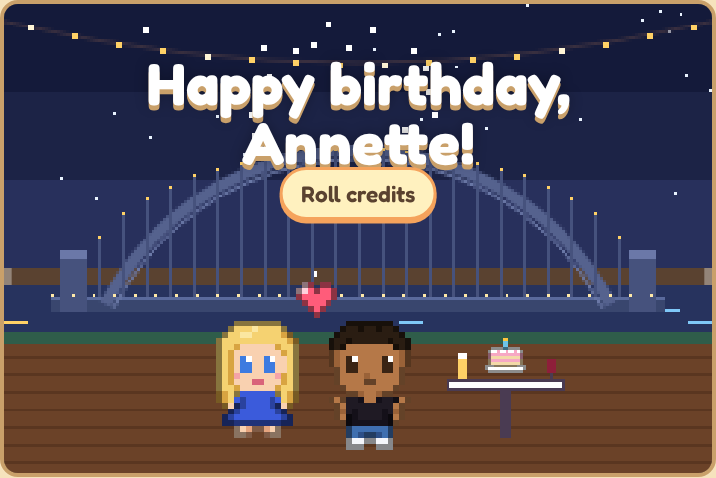
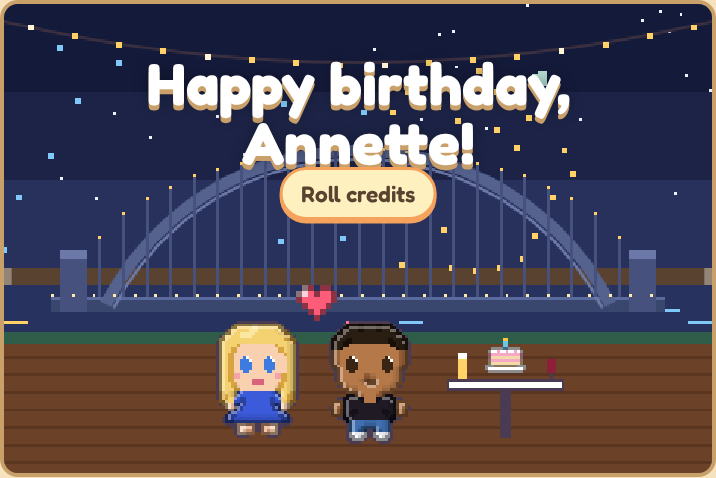
Hi-res leads: Annette, Paulo, Mum and Luca at 2x with rounded edges and soft shading
- Canvas now 480x320 with a 2x transform; all game code still works in 240x160 units
- Lead sprites pass through EPX (Scale2x) for rounded diagonals, then top-left lighting and bottom-right shade
- NPC variants stay at 1x so the leads read as more detailed
- Arms redrawn to hang beside the body; exports and screenshots regenerated

Claude-Session: https://claude.ai/code/session_013V3J7QvyVWMSHyHkDs2Wb3

diff --git a/index.html b/index.html
@@ -176,7 +176,7 @@ button:focus-visible{outline:3px solid #3d7be0;outline-offset:3px}
       <div id="stats"></div>
     </header>
     <div id="screen">
-      <canvas id="game" width="240" height="160" aria-label="Game screen"></canvas>
+      <canvas id="game" width="480" height="320" aria-label="Game screen"></canvas>
       <div id="ui" aria-live="polite"></div>
       <div id="toasts"></div>
       <div id="np" hidden></div>
@@ -261,6 +261,7 @@ const CONFIG = {
 /* ---------------- helpers ---------------- */
 const $ = s => document.querySelector(s);
 const cv = $('#game'), ctx = cv.getContext('2d');
+ctx.setTransform(2, 0, 0, 2, 0, 0); ctx.imageSmoothingEnabled = false;
 ctx.imageSmoothingEnabled = false;
 const ui = $('#ui'), toasts = $('#toasts'), fadeEl = $('#fade');
 const INK = '#4a3b52';
@@ -276,7 +277,7 @@ function hsh(x, y, n) { let h = (x * 374761393 + y * 668265263 + n * 982451653) 
 function oval(cx, cy, rx, ry, fill, stroke) { ctx.beginPath(); ctx.ellipse(cx, cy, rx, ry, 0, 0, Math.PI * 2); ctx.fillStyle = fill; ctx.fill(); if (stroke) { ctx.lineWidth = 2; ctx.strokeStyle = stroke === INK ? shade(fill, 0.6) : stroke; ctx.stroke(); } }
 
 /* ---------------- sprites ---------------- */
-const BODY = [".KSKTTtSStTTKSK.", "..KSTTTTTTTTSK..", "..KsTtTTTTtTsK..", "..KSKtTTTTtKSK..", "...KKbbbbbbKK...", "....KPPPPPPK....", "....KPpKKpPK....", "....KBBKKBBK....", "....KKK..KKK...."];
+const BODY = ["..KKTTtSStTTKK..", ".KSKTTTTTTTTKSK.", ".KsKTtTTTTtTKsK.", "..KKtTTTTTTtKK..", "....KPPPPPPK....", "....KPpKKpPK....", "....KBBKKBBK....", "....KKK..KKK...."];
 const girlPal = { K: INK, W: "#ffffff", Y: "#fbe7a1", S: "#f9d1b0", s: "#e6a57f", R: "#f4a3a8", L: "#d9637a", E: "#3d7be0", H: "#f5d271", h: "#d8a441", T: "#ff6f91", t: "#c94a6e", P: "#2b2d42", p: "#1c1d2c", B: "#f4f6fb" };
 const HEAD_F = ["....KKKKKKKK....", "...KHHHYHHHHK...", "..KHHYYHHHHHhK..", ".KHHHHHHHHHHHhK.", ".KHHhSSSSSShHHK.", ".KHhSSSSSSSShHK.", ".KHhSEWSSEWSSHK.", ".KHhSEESSEESSHK.", ".KHhSEESSEESSHK.", ".KHhRSSSSSSRhHK.", ".KHhSSSLLSSShHK.", ".KHHhSSSSSShHHK.", ".KhHKTTTTTTKHhK.", ".KhHTtTTTTtTHhK.", "..KSKtTTTTtKSK.."];
 const HEAD_B = ["....KKKKKKKK....", "...KHHHYHHHHK...", "..KHHYYHHHHHhK..", ".KHHHHHHHHHHHhK.", ".KHhHHHHHHHHhHK.", ".KHHHhHHHHhHHHK.", ".KHHHHHhHhHHHHK.", ".KHhHHHHHHHHhHK.", ".KHHHhHHhHHhHHK.", ".KHHHHHHHHHHHHK.", ".KHhHHhHHhHHhHK.", ".KHHHHHHHHHHHHK.", ".KhHKTHHhHHTKHhK", ".KhHTtHhHhHtTHhK", "..KSKtTHHhTtKSK."];
@@ -313,29 +314,53 @@ function dk(hex) {
   const n = parseInt(h, 16); if (isNaN(n)) return hex;
   return '#' + [(n >> 16) & 255, (n >> 8) & 255, n & 255].map(v => ('0' + Math.round(v * 0.72).toString(16)).slice(-2)).join('');
 }
+// EPX / Scale2x: doubles a character grid while rounding diagonals, so the leads lose the staircase look
+function epx(rows) {
+  const h = rows.length, w = rows[0].length, at = (x, y) => (y < 0 || y >= h || x < 0 || x >= w) ? '.' : rows[y][x];
+  const out = Array.from({ length: h * 2 }, () => new Array(w * 2).fill('.'));
+  for (let y = 0; y < h; y++) for (let x = 0; x < w; x++) {
+    const P = at(x, y), A = at(x, y - 1), B = at(x + 1, y), C = at(x - 1, y), D = at(x, y + 1);
+    let p1 = P, p2 = P, p3 = P, p4 = P;
+    if (C === A && C !== D && A !== B) p1 = A;
+    if (A === B && A !== C && B !== D) p2 = B;
+    if (D === C && D !== B && C !== A) p3 = C;
+    if (B === D && B !== A && D !== C) p4 = D;
+    out[y * 2][x * 2] = p1; out[y * 2][x * 2 + 1] = p2; out[y * 2 + 1][x * 2] = p3; out[y * 2 + 1][x * 2 + 1] = p4;
+  }
+  return out.map(r => r.join(''));
+}
+function isLead(key, ov) { return key.startsWith('annette') || key.startsWith('luca') || ((key === 'paulo' || key === 'mum') && !(ov && Object.keys(ov).length)); }
 function sprite(key, ov) {
   const id = key + JSON.stringify(ov || {});
   if (spriteCache[id]) return spriteCache[id];
   const d = SPR[key], pal = Object.assign({}, d.pal);
   if (ov) for (const k in ov) { if (ov[k] && pal[k] !== undefined) { pal[k] = ov[k]; const lk = k.toLowerCase(); if (lk !== k && pal[lk] !== undefined) pal[lk] = dk(ov[k]); } }
-  const w = d.rows[0].length, h = d.rows.length;
-  const c = document.createElement('canvas'); c.width = w; c.height = h;
+  const hi = isLead(key, ov) ? 2 : 1, rows = hi === 2 ? epx(d.rows) : d.rows;
+  const w = rows[0].length, h = rows.length;
+  const c = document.createElement('canvas'); c.width = w; c.height = h; c.hi = hi;
   const x = c.getContext('2d');
-  const at = (xx, yy) => (yy < 0 || yy >= h || xx < 0 || xx >= w) ? '.' : d.rows[yy][xx];
-  d.rows.forEach((r, yy) => { for (let xx = 0; xx < w; xx++) {
+  const at = (xx, yy) => (yy < 0 || yy >= h || xx < 0 || xx >= w) ? '.' : rows[yy][xx];
+  const solid = ch => ch !== '.' && ch !== 'K';
+  rows.forEach((r, yy) => { for (let xx = 0; xx < w; xx++) {
     const ch = r[xx]; if (!ch || ch === '.') continue;
     let col = pal[ch] || '#f0f';
     if (ch === 'K') {
       // outline pixel: borrow the colour it sits against, darkened (selective outlining)
       const nb = [[0, -1], [-1, 0], [1, 0], [0, 1], [-1, -1], [1, -1], [-1, 1], [1, 1]].map(([dx, dy]) => at(xx + dx, yy + dy)).filter(n => n !== '.' && n !== 'K' && pal[n]);
       if (nb.length) { const counts = {}; nb.forEach(n => counts[n] = (counts[n] || 0) + 1); const best = Object.keys(counts).sort((a, b) => counts[b] - counts[a])[0]; col = shade(pal[best], 0.55); }
+    } else if (hi === 2 && ch !== 'W' && ch !== 'E') {
+      // soft form shading on the leads: lit from the top-left, shadowed toward the bottom-right edges
+      const up = at(xx, yy - 1), dn = at(xx, yy + 1), lf = at(xx - 1, yy), rt = at(xx + 1, yy);
+      if (!solid(up) || !solid(lf)) col = lite(col);
+      else if (!solid(dn) || !solid(rt)) col = shade(col, 0.86);
+      else if (!solid(at(xx, yy + 2)) || !solid(at(xx + 2, yy))) col = shade(col, 0.94);
     }
     x.fillStyle = col; x.fillRect(xx, yy, 1, 1);
   } });
   return (spriteCache[id] = c);
 }
 function drawSpr(img, x, y, flip, scale) {
-  scale = scale || 1; x = Math.round(x); y = Math.round(y);
+  scale = (scale || 1) / (img.hi || 1); x = Math.round(x); y = Math.round(y);
   const w = img.width * scale, h = img.height * scale;
   if (flip) { ctx.save(); ctx.translate(x + w, y); ctx.scale(-1, 1); ctx.drawImage(img, 0, 0, w, h); ctx.restore(); }
   else ctx.drawImage(img, x, y, w, h);
@@ -413,7 +438,7 @@ function showItem(sprKey, lines) {
   const p = el('div', 'panel');
   p.innerHTML = '<h2>Secret found!</h2>';
   const wrap = el('div', 'itemwrap');
-  const c = el('canvas', 'itemimg'); c.width = im.width; c.height = im.height;
+  const c = el('canvas', 'itemimg'); c.width = im.width; c.height = im.height; c.style.width = (26 / (im.hi || 1)) + 'cqw';
   c.getContext('2d').drawImage(im, 0, 0);
   wrap.append(c); p.append(wrap);
   const txt = el('p', 'isub'); txt.textContent = (Array.isArray(lines) ? lines : [lines]).join(' ');
@@ -1460,7 +1485,7 @@ function loop(now) {
   else if (G.scene === 'finale' || G.scene === 'credits') updateFinale(dt);
   if (G.mode === 'lift') updateLift(dt);
   nowPlaying(); tickClock(dt);
-  ctx.clearRect(0, 0, 240, 160);
+  ctx.setTransform(2, 0, 0, 2, 0, 0); ctx.imageSmoothingEnabled = false; ctx.clearRect(0, 0, 240, 160);
   if (G.scene === 'title') renderTitle();
   else if (G.scene === 'map') renderMap();
   else if (G.scene === 'drive') renderDrive();

diff --git a/CLAUDE.md b/CLAUDE.md
@@ -36,6 +36,8 @@ A birthday gift game for Annette, built by Paulo. A top-down, handheld-style pix
 - beach: `~` water, `u` umbrella, `p` palm, `s` shell, `J` Joanne the Corolla (exit)
 - botanist: `F` film poster (secret), `f` fern, `r` bar counter, `t` table, `n` bartender, `A` Paulo
 
+The canvas is 480x320 but all drawing code works in 240x160 units (the context is scaled 2x). Lead characters (Annette, Luca, and Paulo/Mum without palette overrides) are rendered at 2x through `epx()` (rounded diagonals) plus soft top-left lighting, so they carry twice the detail of NPCs, which stay at 1x. `drawSpr` reads `canvas.hi` to size them correctly.
+
 Multi-tile objects are drawn once from their top-left tile (`isOrigin` + `extent`).
 
 ## Game flow
